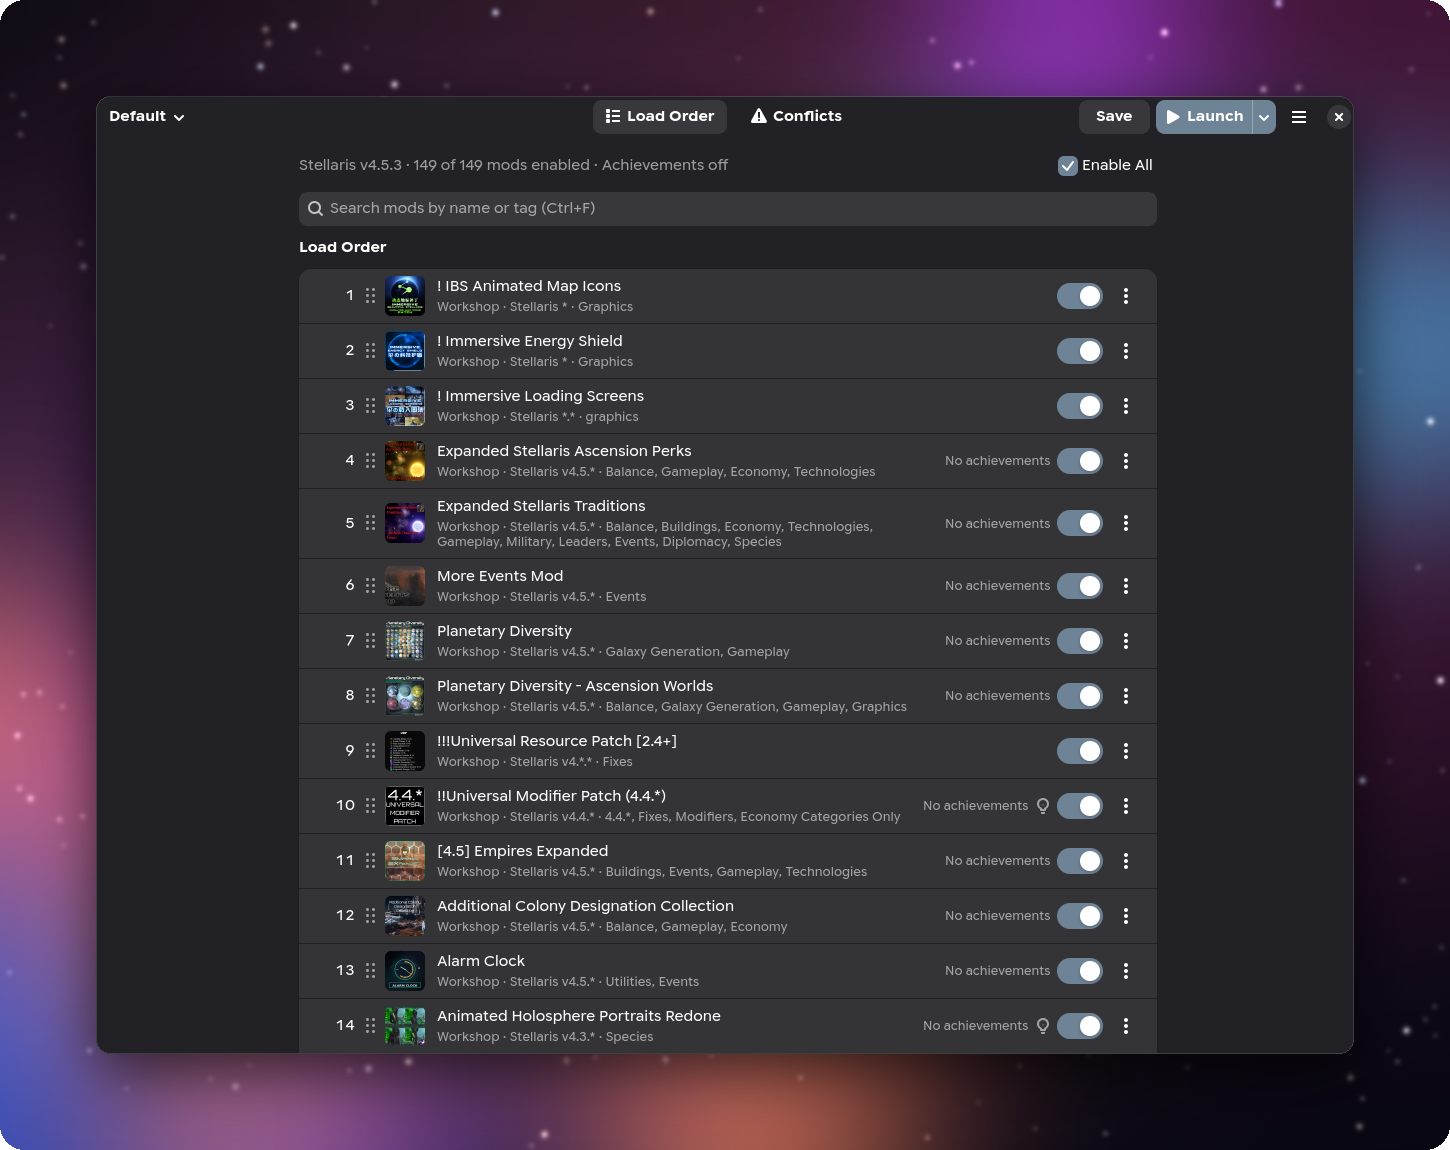
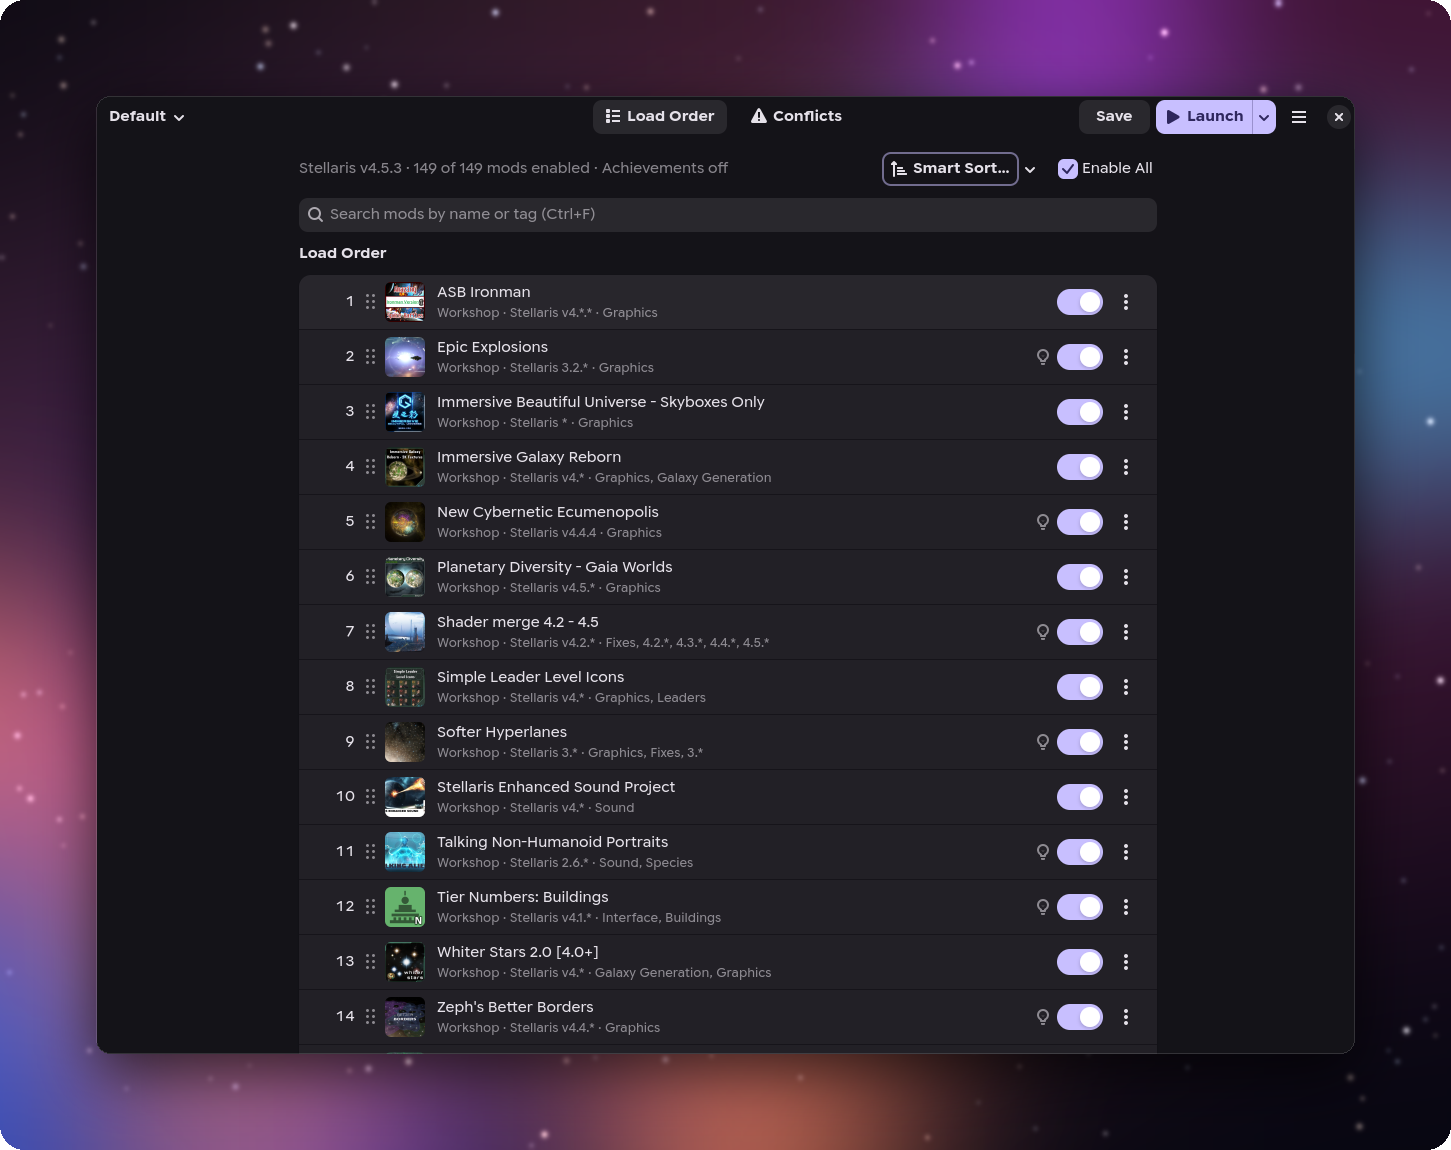
Describe Smart Sort and resizable text boxes in the README (#76)
* Describe Smart Sort and resizable text boxes in the README

* Show Smart Sort in the README's hero screenshot

---------

Changed region(s): [[0.1862, 0.0609, 0.9, 0.913]]

diff --git a/README.md b/README.md
@@ -13,7 +13,7 @@
 
 Built with Rust, GTK 4 and libadwaita · A fork of [Irony Mod Manager](https://github.com/bcssov/IronyModManager)
 
-<img src="docs/screenshots/hero.png" alt="The load order: every enabled mod with its thumbnail, game version and tags" width="860">
+<img src="docs/screenshots/hero.png" alt="The load order after Smart Sort: graphics mods first, each with its thumbnail, game version and tags, and the Smart Sort button in the header" width="860">
 
 </div>
 
@@ -25,6 +25,7 @@ Built with Rust, GTK 4 and libadwaita · A fork of [Irony Mod Manager](https://g
 - ⚡ **Skips the AI when it can.** Conflicts where only one mod changed anything are merged directly, at no cost.
 - 🧹 **Hides the noise.** Ignore one conflict, a whole folder, or anything matching a rule like `gfx/**`.
 - 🗂 **Keeps your load orders.** Named collections that sync to Paradox Launcher playsets, with Workshop collection import, dependency checks and descriptor repair.
+- 🧭 **Sorts them for you.** Smart Sort orders your mods the way the Stellaris community's load order guides suggest, keeping sub-mods below their mods and every mod after its dependencies.
 
 ## Installing
 
@@ -72,8 +73,10 @@ This installs `drukhal-manager` with a desktop entry and icon.
 
 ### 🗂 Your load order
 
-Drag mods into order, type a position, or use **Sort by Dependencies**. Thumbnails come from each mod's folder, or from its Workshop preview. Each mod is marked when it turns off achievements, is waiting on a Steam update, or was unsubscribed in Steam.
+Drag mods into order, type a position, or let DrukhalManager sort them. Thumbnails come from each mod's folder, or from its Workshop preview. Each mod is marked when it turns off achievements, is waiting on a Steam update, or was unsubscribed in Steam.
 
+- **Smart Sort** groups your mods into sections, following the community's load order guides: unofficial patches (`~`) first, then graphics, flavor, shipsets, galaxy generation, gameplay and large overhauls, then compatibility patches, UI mods such as UI Overhaul Dynamic and their patches, and universal patches (`!`) last. Sub-mods go directly below the mod they need, and every mod still loads after its dependencies. A mod's section comes from its name, its dependencies and the folders it ships, not its often-wrong tags. A preview shows where each mod goes and why, and you can move any mod to another section; your choice is remembered. Applying it can be undone.
+- **Other sorts:** **Sort A–Z, Dependencies First** (in Smart Sort's drop-down) sorts by name, and **Sort by Dependencies** appears when a mod loads before one it needs.
 - **Collections:** several named load orders, switched from the header, each synced to its own Paradox Launcher playset. Import a launcher playset (Irony's, for example), a shared file, or a **Workshop collection** from its link. Mods you don't have yet are listed with links to subscribe.
 - **Checks:** warns when a mod loads before one it depends on, and notes missing dependencies and mods made for an older game version.
 - **Descriptor repair:** fixes `.mod` files that point at folders that no longer exist, and removes those whose mod is gone. Everything is backed up first.
@@ -110,6 +113,8 @@ Everything is saved to **DrukhalManager Merged Patch**, a local mod that loads l
 <td><b>Ignore rules</b> hide conflicts by path, like <code>gfx/**</code>, optionally only for an exact set of mods, with a live count of what each rule hides.</td>
 </tr>
 </table>
+
+Text boxes, such as the model's reasoning, merged results and the file editors, can be made taller or shorter by dragging the grip below them.
 
 API keys are kept in your system keyring, or in a settings file only you can read when there's no keyring. Merging sends only the conflicting definitions to the provider you choose.
 
